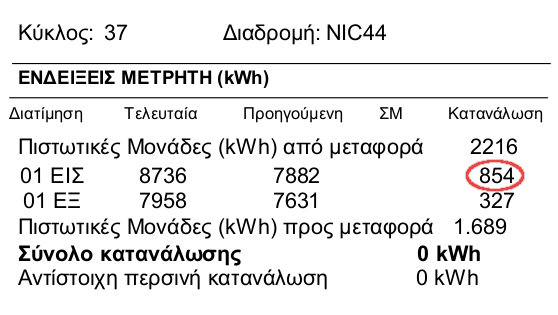
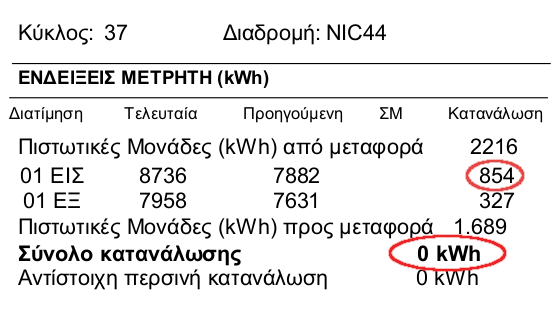
More work on Calculator help

Changed region(s): [[0.6703, 0.7429, 0.914, 0.8857]]

diff --git a/resources/views/calculator/calculator.blade.php b/resources/views/calculator/calculator.blade.php
@@ -123,7 +123,7 @@
             {
                 title: '{{ __('Consumption') }}',
                 element: document.querySelector('#consumption'),
-                intro: '{{ __('Select the month your bill was issued. This is the second date of the period') }}:<br/><img src="{{ __('/images/EAC-Period-en.png') }}" alt="{{ __('Date') }}"/>'
+                intro: '{{ __('Consumption is on the left hand side of the bill under the Meter Readings (kWh) heading.  If you have solar panels you should input the third number on the IMP line. Without Solar Panels you should input the Total Consumption') }}:<br/><img src="{{ __('/images/EAC-Consumption-en.png') }}" alt="{{ __('Date') }}"/>'
             },
         ]
     });
